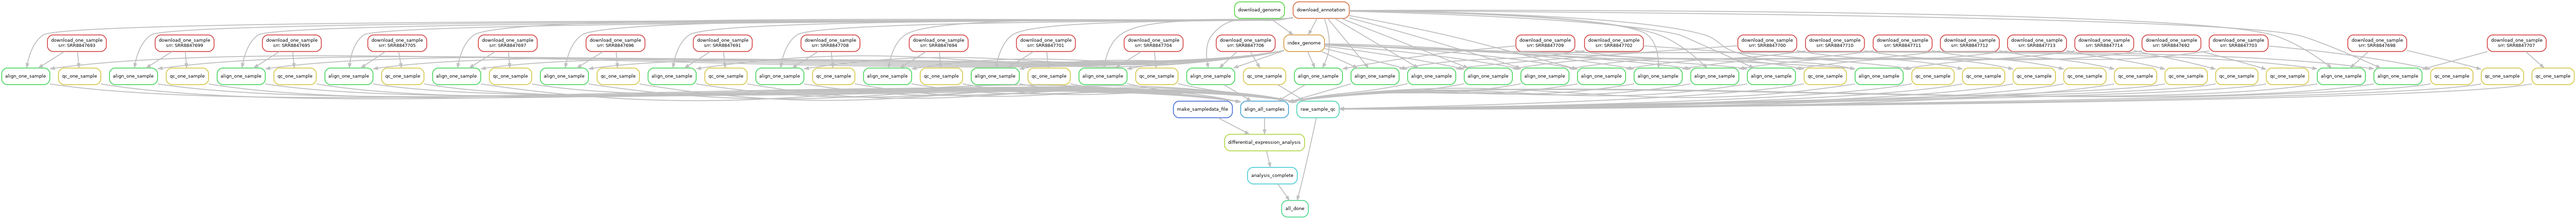
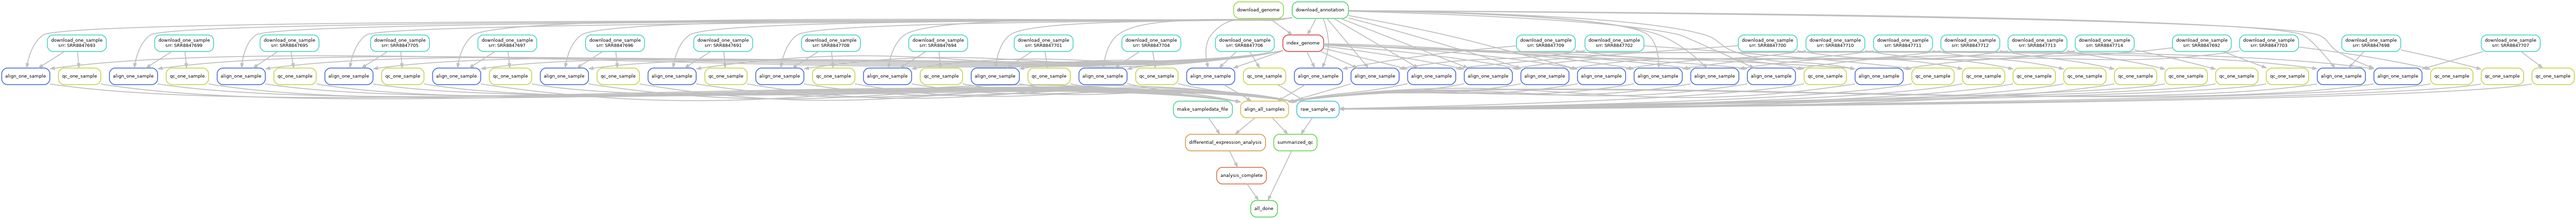
Added qc summary rule. Cleaned up rule "clean". Cleaned up required module list. Updated README.md.

diff --git a/README.md b/README.md
@@ -1,5 +1,18 @@
 # RNASeq_benchmark
 
 This is a snakemake workflow that performs a simple RNAseq gene expression
-analysis using data from experiment GSE74642 from the Gene Expression 
+analysis using data from experiment GSE129319 from the Gene Expression 
 Omnibus.
+
+External programs used by the workflow:
+- module
+- fasterq-dump (module sra-toolkit/2.10.0)
+- STAR (module star/2.7.1a)
+- wget
+- gunzip
+- samtools (module samtools/1.5)
+- Rscript (module R/3.6.1)
+- fastqc (module fastqc/0.11.4)
+- multiqc (module multiqc/1.5)
+
+(Plus, snakemake and python of course)
